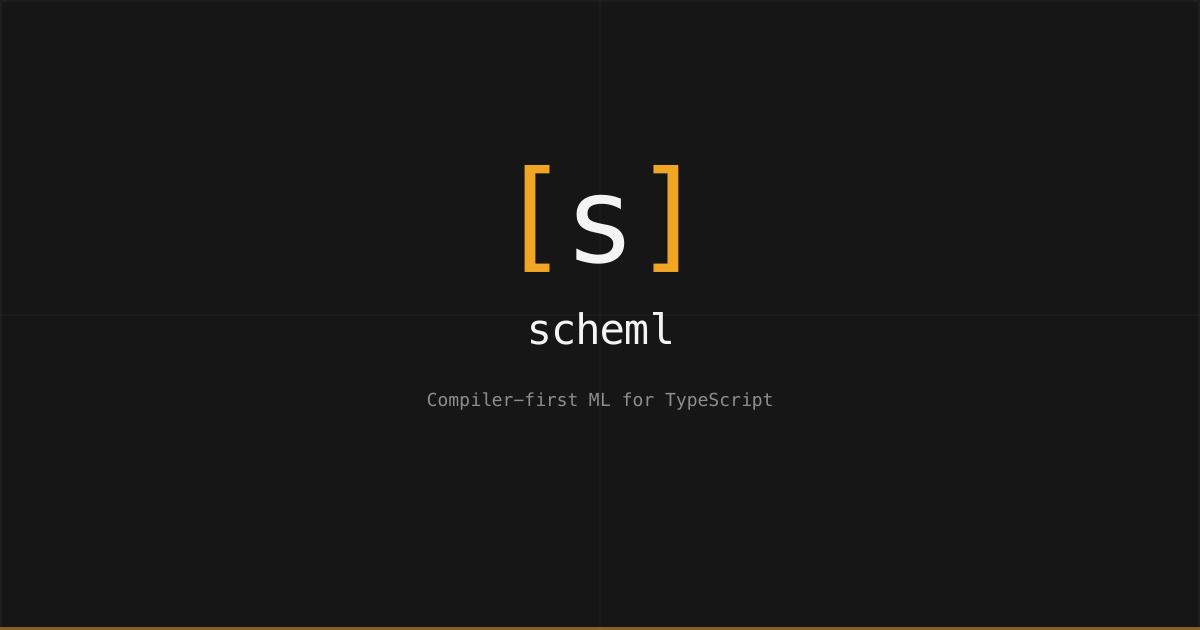
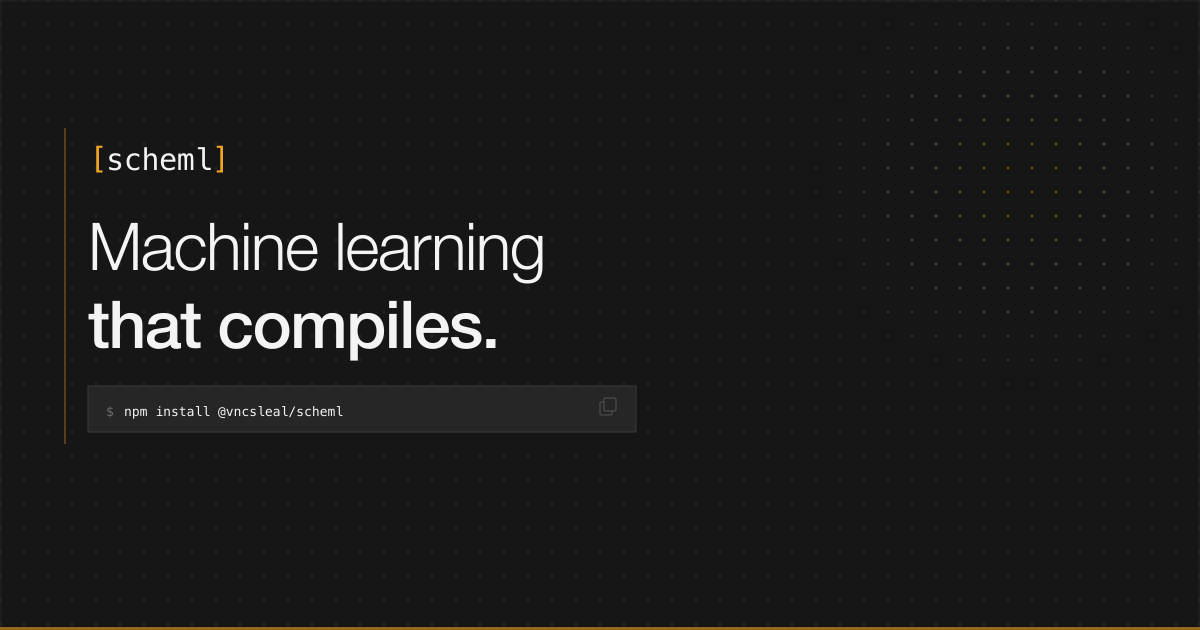
scheml: reset to v0.1.0, new package derived from prisml; update og image

diff --git a/packages/scheml/src/index.ts b/packages/scheml/src/index.ts
@@ -170,4 +170,4 @@ export {
   checkFeedbackDecay,
 } from './feedback';
 
-export const VERSION = '0.3.1';
+export const VERSION = '0.1.0';

diff --git a/CHANGELOG.md b/CHANGELOG.md
@@ -7,345 +7,29 @@ and this project adheres to [Semantic Versioning](https://semver.org/spec/v2.0.0
 
 ## [Unreleased]
 
-### Changed
+## [0.1.0] — 2026-04-08
 
-- **Train-derived preprocessing contract** (`packages/scheml/src/commands/train.ts`, `packages/scheml/src/encoding.ts`): feature encodings, imputations, and scaling rules are now expected to be fit from the training split before the Python backend receives `X_train` / `X_test`. This tightens the artifact contract and removes test-set leakage from preprocessing semantics.
-- **Docs and quickstart alignment** (`README.md`, `docs/GUIDE.md`): introductory examples now reflect AutoML as the default path and describe artifact metadata as the compiled train-derived feature contract used at runtime.
+Initial public release of `@vncsleal/scheml`.
 
-## [0.3.1] — 2026-03-26
-
-### Added
-
-- **Training preflight config validation** (`src/contracts.ts`, `src/commands/train.ts`): `scheml train` now rejects unsupported algorithms, unsupported hyperparameters, invalid hyperparameter constraints, and AutoML hyperparameter usage before Prisma extraction and Python handoff.
-- **Contract tests for preflight and hash semantics** (`src/contracts.test.ts`, `src/prediction.test.ts`): added coverage for training preflight validation and for model-subset hashing with `metadataSchemaVersion` `1.2.x`.
-
-### Changed
-
-- **`scheml check` schema-hash comparison now matches runtime semantics** (`src/commands/check.ts`): metadata using schema contract `1.2.0+` is now compared with `hashPrismaModelSubset()` instead of the full-schema hash, avoiding false hash-mismatch warnings when unrelated Prisma models change.
-- **`PredictionSession.load()` now treats all `1.2.x+` metadata as model-subset hashed** (`src/prediction.ts`): hash selection no longer relies on an exact `1.2.0` string match.
-
-## [0.3.0] — 2026-03-21
+ScheML is a new package derived from [`@vncsleal/prisml`](https://github.com/vncsleal/prisml). It retains the compiler-first ML philosophy and ONNX artifact contract from prisml and extends them to a five-trait type system that is adapter-neutral from the ground up.
 
 ### Added
 
-- **FLAML AutoML backend** (`python/train.py`): `flaml.AutoML` is now the default training backend with a 60-second time budget. Automatically selects the best estimator across linear models, decision trees, random forests, and gradient boosting (LightGBM/XGBoost). The `bestEstimator` name is returned in the Python response and stored in metadata.
-- **`algorithm` is now optional** (`types.ts`, `commands/train.ts`): Omitting `algorithm` in `defineModel()` activates FLAML AutoML. Explicit algorithm overrides still work.
-- **One-hot encoding for string features** (`commands/train.ts`, `encoding.ts`): String features default to `'onehot'` instead of `'label'`. Category list computed at train time and stored in metadata. Unknown categories at inference produce all-zero columns. `buildCategories()` added.
-- **Standard scaling for numeric features**: Mean and standard deviation computed at train time, stored in metadata `scaling` map, applied at inference via `applyScaling()`.
-- **`hashPrismaModelSubset(schema, modelName)`** (`schema.ts`): Hashes only the relevant model block + referenced enums. Reduces false-positive `SchemaDriftError` when unrelated models change.
-- **Python environment preflight** (`commands/train.ts`): `checkPythonEnvironment()` runs before training and fails fast if `python3`, `flaml`, `sklearn`, `skl2onnx`, `numpy`, or `onnx` are missing.
-- **`flaml==2.3.0`** added to `python/requirements.txt`.
-- **`ModelMetadata.bestEstimator`**: optional string storing the estimator selected by AutoML.
-- **`ModelMetadata.scaling`**: map of feature name → `ScalingSpec` for inference-time scaling.
+- **Five trait types** via `defineTrait(entity, config)`: `predictive`, `anomaly`, `similarity`, `temporal`, and `generative`. Each trait type compiles to a versioned build artifact with an explicit runtime contract.
+- **`defineConfig(config)`**: declares the adapter, schema source, and trait list for a project. Validated at config-load time before any training begins.
+- **Adapter system**: Prisma (primary), Drizzle, TypeORM, and Zod schema readers. Prisma and TypeORM support full `extendClient()` interception; Drizzle and Zod support schema reading only.
+- **`extendClient(client, config, options?)`**: extends Prisma/TypeORM clients in `materialized` or `live` mode. In `materialized` mode the trait name is the database column contract.
+- **`createPredictionSession(config)` / `PredictionSession`**: low-level runtime entrypoint for loading artifacts and running inference in-process — no serialisation, no network hop.
+- **Trait graph validation**: `resolveTraitGraph()` validates dependency order, rejects duplicate names and cycles, and trains in topological order so prerequisite traits always precede dependents.
+- **Schema drift detection**: `checkArtifactDrift()` compares the stored schema hash in artifact metadata against the current entity schema and fails loud on mismatch.
+- **`scheml train`**: compiles traits to `.onnx` + `.metadata.json` artifacts via a Python backend (FLAML AutoML default, 60-second budget). Trains in dependency-topological order. `--trait <name>` includes the dependency closure automatically.
+- **Python training backend** (`python/train.py`, `python/requirements.txt`): scikit-learn, FLAML, skl2onnx, onnx, faiss-cpu. Included in the published tarball under `python/`.
+- **Quality gates**: `scheml train` exits non-zero if any declared `qualityGates` metric threshold fails. Enforced for predictive and temporal traits; configuration error for unsupported trait types.
+- **Train-derived preprocessing contract**: feature encodings, imputations, and scaling rules fit from the training split; stored in artifact metadata; applied identically at inference. No test-set leakage.
+- **Full CLI**: `scheml train`, `scheml check`, `scheml status`, `scheml inspect`, `scheml diff`, `scheml audit`, `scheml migrate`, `scheml materialize`, `scheml generate`, `scheml history`, `scheml init`.
+- **History & feedback**: append-only JSONL audit trail for training runs and drift events (`history/`); accuracy-decay detection from ground-truth observations (`feedback/`).
+- **`TTLCache`**: in-process prediction session cache with TTL eviction.
+- **88 public exports** with full TypeScript declaration maps and source maps.
 
-### Changed
-
-- **`onnxruntime-web` → `onnxruntime-node`**: The correct Node.js ONNX Runtime binding is now used.
-- **`load()` backward-compatibility**: Detects `metadataSchemaVersion` and uses `hashPrismaSchema` for v1.1.0 artifacts, `hashPrismaModelSubset` for v1.2.0+. Existing artifacts load without migration.
-- **FNV-1a 32-bit hash** replaces the toy `sum % 1000` hash for `'hash'`-strategy encoding.
-- **`metadataSchemaVersion` bumped to `'1.2.0'`** for new artifacts.
-- **`AlgorithmConfig.version` removed**: Field was never used by the Python backend.
-
-### Removed
-
-- **`ModelRegistry`, `globalModelRegistry`, `registerModel`**: Dead code never integrated into the pipeline.
-
-### Breaking
-
-- `AlgorithmConfig.version` removed from the type — remove it from any `defineModel()` calls.
-- `buildCategoryMapping()` no longer accepts a `strategy` parameter.
-- `EncodedFeature.columnCount: number` is now required.
-- `ModelMetadata.scaling` is now required (use `{}` if no scaling).
-
----
-
-## [0.2.2] — 2026-03-21 *(superseded by 0.3.0)*
-
-## [0.2.1] — 2026-03-21 *(superseded by 0.3.0)*
-
-## [0.2.0] — 2026-03-21 *(superseded by 0.3.0)*
-
-### Added
-
-- **FLAML AutoML backend** (`python/train.py`): `flaml.AutoML` is now the default training backend with a 60-second time budget. It automatically selects the best estimator across linear models, decision trees, random forests, gradient boosting (LightGBM/XGBoost), and more. The `bestEstimator` field is returned in the Python response and stored in metadata.
-- **`algorithm` is now optional** (`types.ts`, `commands/train.ts`): Omitting `algorithm` in `defineModel()` activates FLAML AutoML. Explicit algorithms (`forest`, `gbm`, `linear`, etc.) still work as overrides.
-- **One-hot encoding for string features** (`commands/train.ts`, `encoding.ts`): String features now default to `'onehot'` encoding instead of `'label'`. Unseen categories at inference produce all-zero columns. `buildCategories()` is added to compute sorted unique category arrays.
-- **Standard scaling for numeric features** (`commands/train.ts`, `encoding.ts`): Mean and standard deviation are computed at train time, stored in the metadata `scaling` map, and applied via `applyScaling()` at inference. Safe for all algorithm families.
-- **`hashPrismaModelSubset(schema, modelName)`** (`schema.ts`): New function that hashes only the relevant `model` block plus any referenced `enum` blocks, rather than the entire schema file. Reduces false-positive `SchemaDriftError` when unrelated models change.
-- **Python environment preflight** (`commands/train.ts`): `checkPythonEnvironment()` runs before training and fails fast with a `ConfigurationError` if `python3`, `flaml`, `sklearn`, `skl2onnx`, `numpy`, or `onnx` are missing.
-- **`flaml==2.3.0`** added to `python/requirements.txt`.
-- **`ModelMetadata.bestEstimator`** (optional string): the name of the estimator selected by AutoML, e.g. `"LGBMClassifier"`.
-- **`ModelMetadata.scaling`**: map of feature name → `ScalingSpec` stored in metadata for inference-time application.
-
-### Changed
-
-- **`onnxruntime-web` → `onnxruntime-node`** (`package.json`, `prediction.ts`): The correct Node.js ONNX Runtime binding is now used. `onnxruntime-web` is browser/WASM-only and caused silent correctness divergence when running in Node.
-- **`load()` backward-compatibility** (`prediction.ts`): `PredictionSession.load()` detects `metadataSchemaVersion` and uses `hashPrismaSchema` for v1.1.0 artifacts, `hashPrismaModelSubset` for v1.2.0+ artifacts. Existing artifacts do not need to be regenerated.
-- **FNV-1a 32-bit hash** replaces the toy `sum-of-char-codes % 1000` hash for `'hash'`-strategy category encoding.
-- **`metadataSchemaVersion` bumped to `'1.2.0'`** for artifacts produced by this version.
-- **`AlgorithmConfig.version` removed**: The field was declared but never used by the Python backend. Existing configs that include it must remove it.
-
-### Removed
-
-- **`ModelRegistry`, `globalModelRegistry`, `registerModel`** (`defineModel.ts`, `index.ts`): Dead code that was never integrated into the training or inference pipeline.
-
-### Breaking
-
-- `AlgorithmConfig.version` is removed from the type. Remove it from any `defineModel()` calls and `ModelMetadata` objects.
-- `buildCategoryMapping()` no longer accepts a second `strategy` parameter. The hash-strategy branch is gone; use `buildCategories()` + one-hot encoding instead.
-- New `EncodedFeature.columnCount: number` field is required (always `1` for non-onehot features).
-- New `ModelMetadata.scaling` field is required in the `ModelMetadata` type (use `{}` if no scaling).
-
----
-
-## [0.1.2] — 2026-03-09
-
-### Fixed
-
-- **Schema normalization order invariance** (`schema.ts`): `normalizePrismaSchema()` was sensitive to declaration order — running `prisma format` (which reorders fields and models) produced a different SHA-256 hash for semantically identical schemas, causing false `SchemaDriftError` on `session.load()`. The function now sorts field lines alphabetically within each `model`/`enum` block (with `@@` directives after fields), and sorts `model`/`enum`/`type` blocks by name. `datasource`/`generator` blocks are preserved first in original order.
-
-  **Migration:** Existing `.onnx` + `.metadata.json` artifacts must be regenerated with `scheml train`. The stored `prismaSchemaHash` will differ from the hash produced by this version. Tests pinning `KNOWN_SCHEMA_HASH` must be updated to the new value (run `hashPrismaSchema()` against your schema to obtain it).
-
-- **ONNX orphan on quality gate failure** (`commands/train.ts`): When a quality gate failed, the Python backend had already written the `.onnx` file before the gate was evaluated. The gate threw `QualityGateError` and the `.metadata.json` was never written, leaving a dangling `.onnx` with no corresponding metadata. The artifact is now deleted before rethrowing, ensuring no artifact exists without its metadata counterpart.
-
-- **Non-deterministic train/test split** (`commands/train.ts`): `prisma.findMany()` was called without `orderBy`, relying on database-defined row order which is undefined across vacuums, migrations, and engines. The seeded shuffle (`seed = 42`) was operating on a non-deterministic input, producing different train/test splits across runs. Fixed by adding `orderBy: { id: 'asc' }` to enforce a stable row ordering before shuffling.
-
-- **`applyImputation` silent zero return** (`encoding.ts`): The `mean`, `median`, and `mode` imputation branches returned `0` when no precomputed value was present in metadata, silently corrupting feature vectors instead of failing loudly. These branches now throw `"Imputation strategy 'X' requires a precomputed numeric value in metadata"` unless a valid `rule.value` is present.
-
-### Changed
-
-- `AlgorithmConfig.version` JSDoc updated to document that the field is declared but not currently enforced by the Python backend. Reserved for future version pinning.
-- Added `orderBy: { id: 'asc' }` to `findMany()` in the training pipeline (see fix above).
-- Seed `42` annotated as V2 tech debt — split logic belongs in Python once preprocessing moves there.
-
-### Added
-
-- 5 new tests in `schema.test.ts` covering: field-order invariance, `@@` directive placement after field sorting, model-block-order invariance, and whitespace-only schema handling.
-- `ONNX_RUNTIME_PARITY.md` — assessment of the `onnxruntime-web` vs `onnxruntime-node` execution parity gap. Documents divergence risk by algorithm, the quality gate correctness implication, and the fix path (`onnxruntime-node` as default, `onnxruntime-web` as opt-in `/edge` entrypoint). Flagged as a V1 blocker.
-
----
-
-## [0.1.0] — 2026-03-09
-
-### Changed
-
-- Consolidated `@vncsleal/scheml-core`, `@vncsleal/scheml-runtime`, `@vncsleal/scheml-cli`, and `@vncsleal/scheml-generator` into a single `@vncsleal/scheml` package. All sub-packages are retired.
-- New `session.load(model, opts?)` API — resolves `.scheml/` artifacts and `prisma/schema.prisma` automatically from the model definition.
-- New `session.predict(model, entity)` overload — resolvers are colocated in `model.features`, no longer passed as a separate argument.
-- New `session.predictBatch(model, entities)` overload.
-- `scheml check` command included in the single package.
-- Python training backend (`python/train.py`) included in `packages/scheml/python/`.
-- Package version reset to `0.1.0`.
-
-### Removed
-
-- `@vncsleal/scheml-core` (retired)
-- `@vncsleal/scheml-runtime` (retired)
-- `@vncsleal/scheml-cli` (retired)
-- `@vncsleal/scheml-generator` (retired)
-
----
-
-## Legacy (Multi-Package Era)
-
-> The entries below document the development history of the multi-package era (`@vncsleal/scheml-core`, `-runtime`, `-cli`). They are preserved for historical context.
-
-## [0.2.3] - 2026-03-08
-
-### Changed
-
-- **`@vncsleal/scheml-runtime`**: `onnxruntime-node` moved from `dependencies` to `peerDependencies`. Consumers must install it explicitly. This prevents npm from nesting `onnxruntime-node` inside `@vncsleal/scheml-runtime/node_modules/`, which blocked Vercel builds by triggering a redundant 101 MB binary download on every cold install.
-
-## [0.2.2] - 2026-03-08
-
-### Added
-
-- **Live demo page** (`/demo`): interactive prediction UI with real ONNX inference running in-process via `@vncsleal/scheml-runtime`; includes latency display, schema drift trigger, and Carbon-inspired dark UI
-- **Example Prisma setup**: `examples/basic/prisma/schema.prisma` and `prisma/seed.ts` with `setup-demo` and `train:demo` scripts for reproducible demo artifact generation
-
-### Fixed
-
-- **Classification ONNX export**: `train.py` in `@vncsleal/scheml-cli` now passes `zipmap: False` when exporting classification models. Previously the default `zipmap=True` caused skl2onnx to return a list-of-dicts output tensor instead of a float array, breaking runtime inference for all classification tasks.
-- **CLI version**: `scheml --version` now reads the version dynamically from `package.json` at runtime instead of returning a hardcoded `0.1.0`
-- **ESLint**: Lint scripts updated with `--ext .ts` flag explicitly, ensuring TypeScript files are linted in all packages
-- **Build isolation**: `tsconfig.json` in `@vncsleal/scheml-core` and `@vncsleal/scheml-runtime` now excludes test files from compilation (`src/**/*.test.ts`); `files` arrays in both `package.json`s exclude `dist/**/*.test.*` from npm tarballs
-- **CI**: Added `workflow_dispatch` trigger for on-demand manual CI runs; removed stale `packages/python/` (Python backend is bundled inside `@vncsleal/scheml-cli`)
-
-## [0.2.1] - 2026-03-05
-
-### Added
-
-- **Test Coverage**: 95 integration tests across `@vncsleal/scheml-core` and `@vncsleal/scheml-runtime`
-  - `schema.test.ts`: schema normalization, SHA256 hashing, hash validation, model parsing (19 tests)
-  - `encoding.test.ts`: scalar normalization for all types, category mapping, feature vector ordering (29 tests)
-  - `errors.test.ts`: all 10 error classes, correct codes, context fields, `instanceof` chain (32 tests)
-  - `prediction.test.ts`: `ModelMetadataLoader` caching, `FeatureExtractor` resolver guards, schema drift detection, uninitialized model guards (15 tests)
-
-- **CI (GitHub Actions)**: `.github/workflows/ci.yml`
-  - Matrix tests across Node.js 18, 20, 22 on every push and pull request
-  - Dedicated `typecheck` and `lint` jobs
-  - **Python ML dependency validation**: explicitly installs and validates `numpy`, `scikit-learn`, `skl2onnx`, `onnx` from pinned `requirements.txt` before running any test — catches broken Python environments in CI before they reach users
-  - `pnpm` and `pip` caching for fast re-runs
-
-### Fixed
-
-- `vitest` added to `devDependencies` in `@vncsleal/scheml-core` and `@vncsleal/scheml-runtime` (was only hoisted from root workspace, causing resolution issues when packages are used standalone)
-
-### Changed
-
-- **Publishing model**: `@vncsleal/scheml` now depends only on `@vncsleal/scheml-core` and `@vncsleal/scheml-runtime`. The CLI (`@vncsleal/scheml-cli`) is removed from the umbrella's runtime `dependencies` — it must be installed explicitly as a `devDependency`. This prevents build-time tools (yargs, chalk, ora, ts-node, onnxruntime-node) from being pulled into application bundles. Sub-packages remain individually published for granular control.
-
-## [0.2.0] - 2026-02-20
-
-### Added
-
-- **Extended Metadata Contract (v1.1.0)**: Enhanced model metadata for contract validation
-  - `featureDependencies`: Explicit schema field dependencies per feature
-  - `tensorSpec`: ONNX tensor metadata (name, shape, type)
-  - Backward compatible with v1.0.0 metadata
-
-- **Schema-Only Contract Validation**: New `scheml check` command
-  - Validates feature dependencies against Prisma schema without training
-  - Detects type mismatches (String vs Float, etc.)
-  - Detects nullability mismatches (required field used as nullable)
-  - Warns on dynamic features (runtime-only resolution)
-  - Fast CI-friendly validation (no Python/training required)
-
-- **Prisma Generator Package**: `scheml-generator` for schema annotations
-  - Parses `@scheml` annotations from Prisma schema docstrings
-  - Generates type-safe TypeScript constants (`ScheMLAnnotations`)
-  - Supports `model`, `threshold`, `fallback` configuration
-  - Full `as const` type inference for autocomplete
-  - Application-level ML configuration co-located with schema
-
-### Changed
-
-- **Training Command**: Now emits v1.1.0 metadata with feature dependencies
-- **ESM Configuration Loading**: Fixed dynamic import handling for "type": "module" packages
-- **Default Output Directory**: Changed from `./scheml-artifacts` to `./.scheml` (follows industry standard dotfile pattern like `.next/`, `.nuxt/`)
-
-## [0.1.0-legacy] - 2026-02-04
-
-### Added
-
-- **Core Type System**: Complete type-safe model definition API with `defineModel()`
-  - `TaskType` enum: regression, binary_classification, multiclass_classification
-  - `AlgorithmConfig` with pinned versions and hyperparameters
-  - `QualityGate` for build-time model validation
-  - `ModelMetadata` contract for immutable artifacts
-
-- **Prisma Schema Binding**: Deterministic schema hashing and drift detection
-  - SHA256 hashing of normalized Prisma schema
-  - Runtime schema hash validation with `SchemaDriftError`
-  - Prevents inference on schema-drifted models
-
-- **Feature Encoding & Normalization**: Explicit, deterministic feature processing
-  - Support for scalar types: number, boolean, string, Date, null
-  - Categorical encoding: label and hash strategies
-  - Imputation rules: constant, mean, median, mode
-  - Unseen category detection with `UnseenCategoryError`
-
-- **Compilation/Training Phase**: Build-time model training via `scheml train`
-  - Prisma data extraction via ORM
-  - Deterministic feature vector generation
-  - Fixed-seed train/test split (80/20, seed=42)
-  - Quality gate evaluation on hold-out test set
-  - Artifact generation: ONNX + metadata JSON
-  - Python backend integration (scikit-learn + skl2onnx)
-  - Support for: linear, tree, forest, gbm algorithms
-
-- **Runtime Prediction Engine**: ONNX Runtime integration
-  - `PredictionSession` for managing model lifecycle
-  - Single predictions: `predict<T>(modelName, entity, resolvers)`
-  - Batch predictions with atomic validation: `predictBatch<T>()`
-  - Preflight validation ensures no partial execution on error
-  - Feature extraction via resolver functions
-  - Synchronous, in-process inference
-
-- **Error Handling**: Comprehensive, typed error taxonomy
-  - `ScheMLError` base class with structured context
-  - Specific error types: SchemaDriftError, HydrationError, UnseenCategoryError, etc.
-  - Batch index tracking for debugging
-
-- **CLI**: Compiler driver for model training
-  - `scheml train` command with configurable options
-  - Status output with spinners and colored logging
-  - Quality gate enforcement with non-zero exit on failure
-  - Support for config, schema, output, and python backend options
-
-- **Documentation**: Complete API and usage guides
-  - API.md: detailed function signatures and examples
-  - GUIDE.md: step-by-step user guide with code examples
-  - SECURITY.md: safety guarantees and design constraints
-  - ARCHITECTURE.md: system design and mental model
-  - FEATURES.md: feature specifications and rationale
-
-- **Example Project**: End-to-end example in `examples/basic`
-  - Product Sales prediction model
-  - Model definition with regression task
-  - Training and inference workflows
-
-### Fixed
-
-- **Batch Inference Atomicity**: Implemented atomic two-phase execution
-  - Phase 1: Preflight validation of all entities
-  - Phase 2: ONNX inference (only if all entities validated)
-  - Throws on first failure with batch index context
-  - No partial results on error (matches PRD requirement)
-
-- **CLI Build Script**: Removed non-standard chmod workaround
-  - Replaced `tsc && chmod +x` with standard shebang + npm bin field
-  - npm handles executable bit on install/publish (industry standard)
-
-- **Runtime Naming**: Renamed inference.ts to prediction.ts
-  - Aligns with API naming convention (`predict()`, `PredictionSession`)
-  - Better semantic consistency across codebase
-
-### Known Limitations
-
-- AST static analysis stubbed (deferred to V1)
-  - Feature resolver access paths validated at runtime only
-  - Conservative static analysis is out of scope for MVP
-- Docker backend option not implemented (local Python only)
-  - Deferred to V1 as nice-to-have enhancement
-- Hash encoding uses simple sum mod 1000 (deterministic but basic)
-  - Will be replaced with MurmurHash3 in V1
-
-### Technical Details
-
-- **Language**: TypeScript 5.3
-- **Runtime**: Node.js 18+
-- **Build System**: Turbo (monorepo)
-- **Package Manager**: pnpm
-- **ML Backend**: scikit-learn + ONNX Runtime
-- **Type Safety**: Complete end-to-end TypeScript support
-
-### Breaking Changes
-
-None (initial release)
-
-### Contributors
-
-- ScheML Team
-
----
-
-## Unreleased
-
-### Planned for V1
-
-- Full AST static analysis for feature resolvers
-- Docker backend option for Python training
-- MurmurHash3 for categorical encoding
-- Performance optimizations (batch ONNX inference)
-- Advanced feature types (arrays, nested objects)
-- Custom imputation strategies
-
----
 
 [0.1.0]: https://github.com/vncsleal/scheml/releases/tag/v0.1.0
-[0.2.3]: https://github.com/vncsleal/scheml/releases/tag/v0.2.3
-[0.2.2]: https://github.com/vncsleal/scheml/releases/tag/v0.2.2
-[0.2.1]: https://github.com/vncsleal/scheml/releases/tag/v0.2.1
-[0.2.0]: https://github.com/vncsleal/scheml/releases/tag/v0.2.0
-[0.1.0-legacy]: https://github.com/vncsleal/scheml/releases/tag/v0.1.0-legacy
